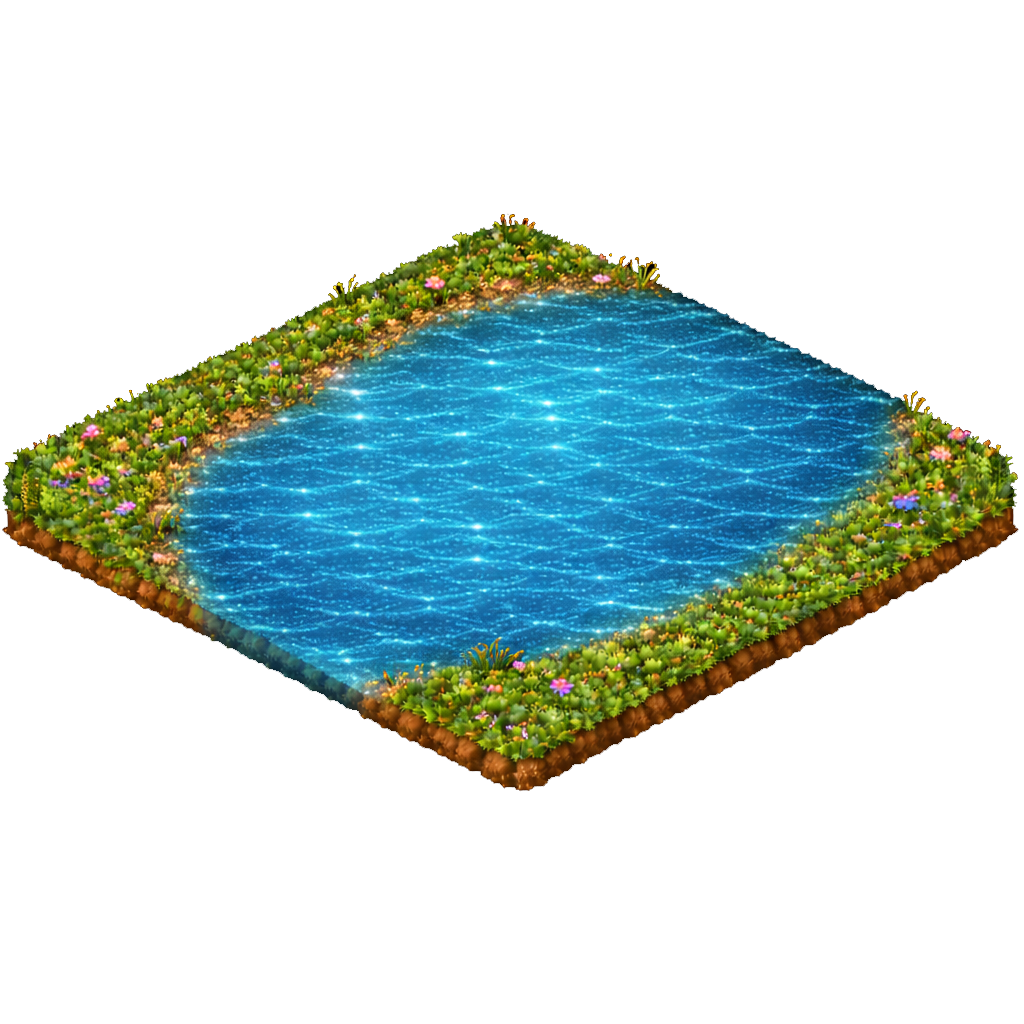
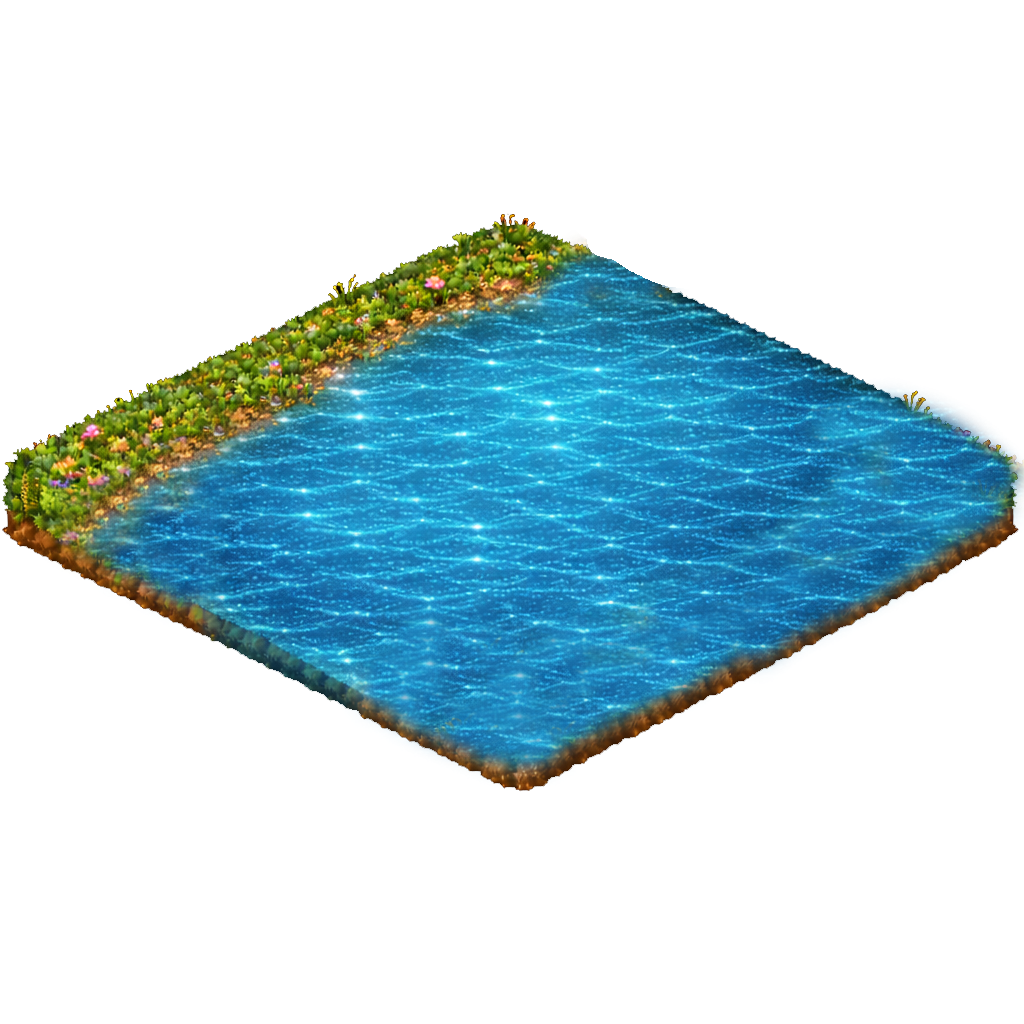
Mejorar renderizado y caminos realis

Changed region(s): [[0.3438, 0.375, 1.0, 0.7812], [0.0625, 0.4062, 0.25, 0.5938], [0.5, 0.2188, 0.6562, 0.3125]]

diff --git a/public/index.js b/public/index.js
@@ -19,11 +19,16 @@ if (!gameCtx || !miniCtx || !stepCountEl) {
 const view = { width: 1, height: 1 };
 let world = WORLD_CONFIG;
 let state = null;
+let renderState = null;
 let ws = null;
 let backendReady = false;
 let sessionId = null;
 let playerName = null;
 let pendingTargetKey = null;
+let lastFrameTs = performance.now();
+
+const SMOOTHING_RATE = 14;
+const SNAP_DISTANCE = 180;
 
 function ensureSession() {
   let id = localStorage.getItem(SESSION_KEY);
@@ -83,6 +88,74 @@ function renderBackendError(message) {
   gameCtx.fillText(message, 40, 120);
 }
 
+function cloneStateForRender(source) {
+  if (!source) return null;
+  return {
+    ...source,
+    player: source.player ? { ...source.player } : null,
+    camera: source.camera ? { ...source.camera } : null,
+    moveTarget: source.moveTarget ? { ...source.moveTarget } : null,
+    plannedPath: Array.isArray(source.plannedPath) ? source.plannedPath.map((step) => ({ ...step })) : [],
+    players: Array.isArray(source.players) ? source.players.map((p) => ({ ...p })) : [],
+  };
+}
+
+function smoothPoint(from, to, factor, snapDistance = SNAP_DISTANCE) {
+  if (!from) return { x: to.x, y: to.y };
+  const dx = to.x - from.x;
+  const dy = to.y - from.y;
+  if (Math.hypot(dx, dy) >= snapDistance) {
+    return { x: to.x, y: to.y };
+  }
+  return {
+    x: from.x + dx * factor,
+    y: from.y + dy * factor,
+  };
+}
+
+function updateRenderState(current, target, dt) {
+  if (!target) return current;
+  if (!current) return cloneStateForRender(target);
+
+  const factor = 1 - Math.exp(-SMOOTHING_RATE * dt);
+  current.selfSessionId = target.selfSessionId;
+  current.chunk = target.chunk;
+  current.moveTarget = target.moveTarget ? { ...target.moveTarget } : null;
+  current.plannedPath = target.plannedPath || [];
+
+  if (target.player) {
+    const smoothed = smoothPoint(current.player, target.player, factor);
+    current.player = { ...target.player, x: smoothed.x, y: smoothed.y };
+  }
+
+  if (target.camera) {
+    const smoothed = smoothPoint(current.camera, target.camera, factor, SNAP_DISTANCE * 1.4);
+    current.camera = { ...target.camera, x: smoothed.x, y: smoothed.y };
+  }
+
+  const byId = new Map((current.players || []).map((p) => [p.id, p]));
+  const nextPlayers = [];
+  const targetPlayers = target.players || [];
+
+  for (let i = 0; i < targetPlayers.length; i += 1) {
+    const next = targetPlayers[i];
+    const prev = byId.get(next.id);
+    if (!prev) {
+      nextPlayers.push({ ...next });
+      continue;
+    }
+    const smoothed = smoothPoint(prev, next, factor);
+    nextPlayers.push({
+      ...next,
+      x: smoothed.x,
+      y: smoothed.y,
+    });
+  }
+
+  current.players = nextPlayers;
+  return current;
+}
+
 function connectWs() {
   return new Promise((resolve, reject) => {
     const protocol = location.protocol === "https:" ? "wss" : "ws";
@@ -114,6 +187,8 @@ function connectWs() {
           selfSessionId: data.selfSessionId,
           chunk: data.chunk,
         };
+        renderState = cloneStateForRender(state);
+        lastFrameTs = performance.now();
         stepCountEl.textContent = String(data.steps);
         backendReady = true;
         resolve();
@@ -245,17 +320,23 @@ async function initGame() {
   const renderWorld = createTileMapRenderer(gameCtx, world, view, sprites);
 
   function frame() {
+    const now = performance.now();
+    const dt = Math.min((now - lastFrameTs) / 1000, 0.05);
+    lastFrameTs = now;
+
     if (state) {
-      renderWorld(state.camera, state.chunk);
-      renderPlannedPathOverlay(state);
-      renderPlayersOverlay(state);
-      renderMinimap(miniCtx, minimapCanvas, state, world, view);
+      renderState = updateRenderState(renderState, state, dt);
+      renderWorld(renderState.camera, renderState.chunk);
+      renderPlannedPathOverlay(renderState);
+      renderPlayersOverlay(renderState);
+      renderMinimap(miniCtx, minimapCanvas, renderState, world, view);
     }
     requestAnimationFrame(frame);
   }
 
   gameCanvas.addEventListener("click", (event) => {
     if (!backendReady || !state) return;
+    const currentState = renderState || state;
     const rect = gameCanvas.getBoundingClientRect();
     const scaleX = gameCanvas.width / rect.width;
     const scaleY = gameCanvas.height / rect.height;
@@ -265,13 +346,13 @@ async function initGame() {
       event,
       rect,
       view,
-      state.camera,
+      currentState.camera,
       world,
       world.cols * world.tileSize,
       world.rows * world.tileSize
     );
     const clickedKey = worldToTileKey(worldPos);
-    const plannedTargetKey = getPlannedTargetKey(state);
+    const plannedTargetKey = getPlannedTargetKey(currentState);
 
     if (plannedTargetKey && pendingTargetKey === plannedTargetKey && clickedKey === plannedTargetKey) {
       sendWs({

diff --git a/server/config.js b/server/config.js
@@ -4,7 +4,14 @@ const HOST = "127.0.0.1";
 const PORT = process.env.PORT || 3000;
 const PUBLIC_DIR = path.join(__dirname, "..", "public");
 const WS_GUID = "258EAFA5-E914-47DA-95CA-C5AB0DC85B11";
-const TICK_MS = 50;
+
+function parseTickMs(value, fallback = 33) {
+  const parsed = Number.parseInt(value, 10);
+  if (!Number.isFinite(parsed)) return fallback;
+  return Math.max(16, Math.min(100, parsed));
+}
+
+const TICK_MS = parseTickMs(process.env.TICK_MS);
 
 const MIME_TYPES = {
   ".html": "text/html; charset=utf-8",

diff --git a/README.md b/README.md
@@ -14,6 +14,17 @@ npm start
 
 Open `http://127.0.0.1:3000`.
 
+### Optional performance tuning
+
+- Server tick rate is configurable with `TICK_MS` (default: `33`, min `16`, max `100`).
+
+```bash
+TICK_MS=16 npm start
+```
+
+- Tile debug labels are disabled by default. Enable only when needed:
+  - `http://127.0.0.1:3000/?debugTiles=1`
+
 ## Test
 
 ```bash
